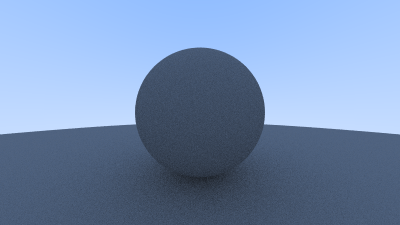
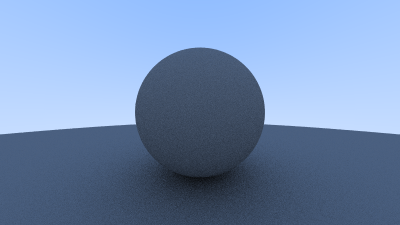
correct rendering of sphere

Changed region(s): [[0.39, 0.7467, 0.63, 0.9022]]

diff --git a/camera.h b/camera.h
@@ -111,7 +111,7 @@ private:
 		hit_record rec;
 
 		if (world.hit(r, interval(0.001, infinity), rec)) {
-			vec3 direction = random_on_hemisphere(rec.normal);
+			vec3 direction = rec.normal + random_unit_vector();
 			return 0.5 * ray_color(ray(rec.p, direction), depth - 1, world);
 		}
 
